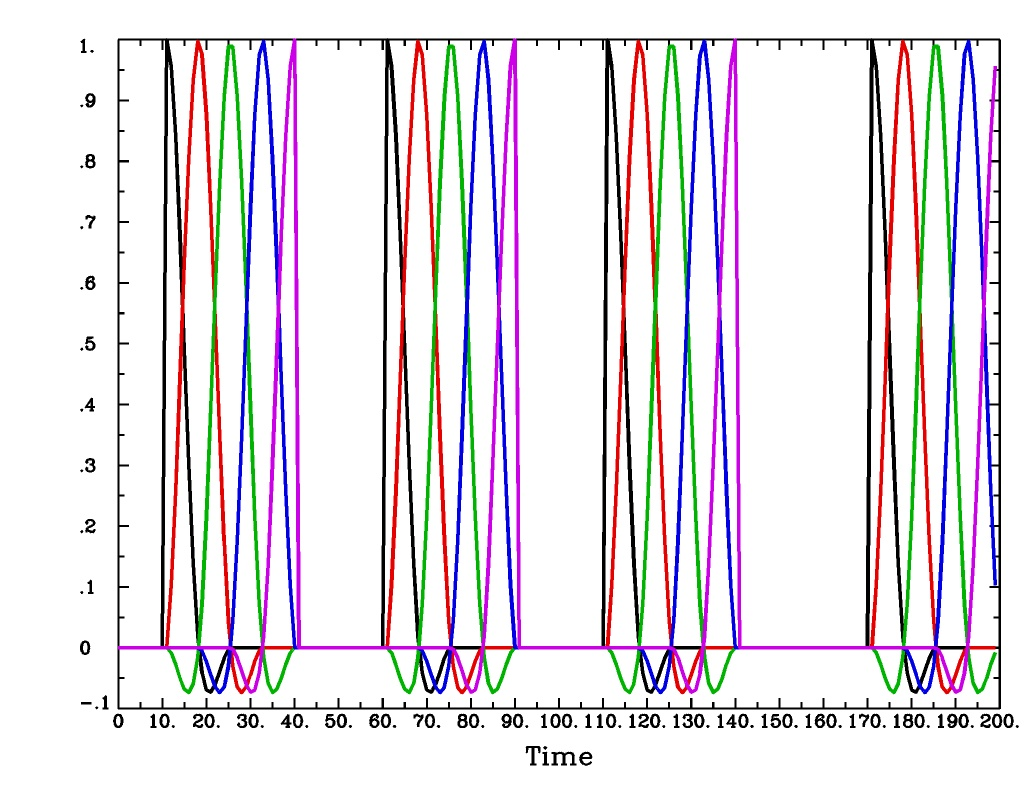
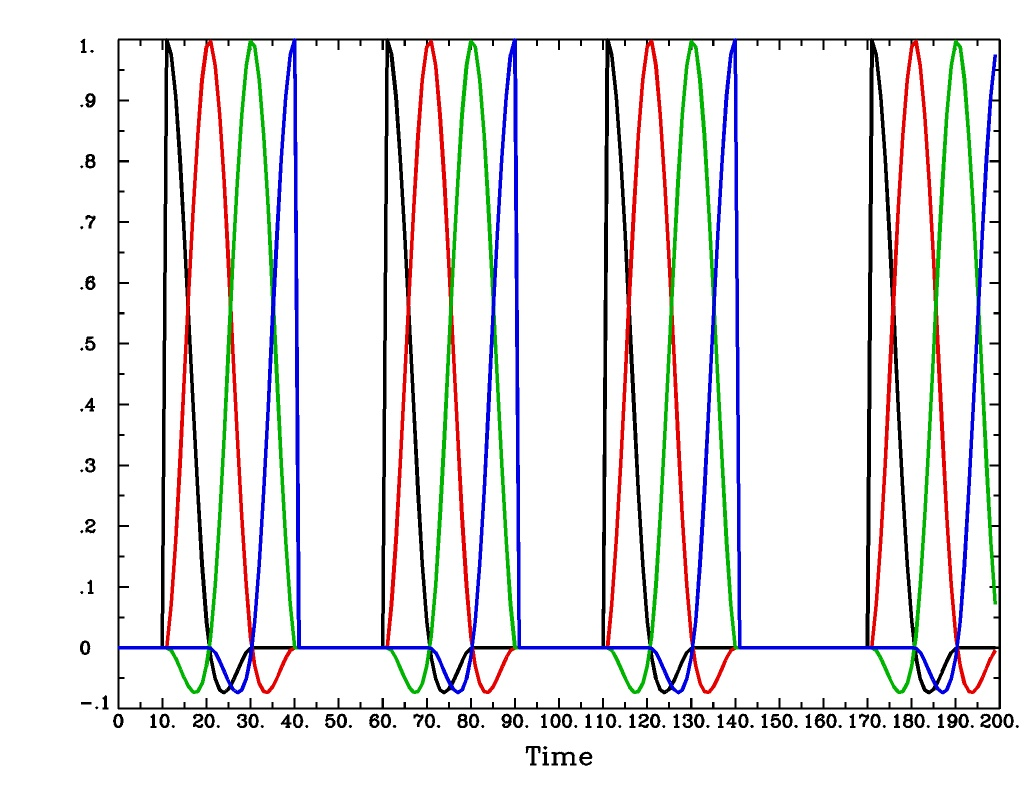
more stim time function plots

diff --git a/statistics/deconvolve_2004.rst b/statistics/deconvolve_2004.rst
@@ -594,7 +594,7 @@ SEE THE CURRENT HELP**
 
       3dDeconvolve -nodata 200 1.0 -num_stimts 1 -polort -1 -xjpeg CSPLIN_x.jpg \
              -local_times -x1D stdout:                  \
-             -stim_times 1 '1D: 10 60 110 170' 'CSPLIN(1,30,5)'  \
+             -stim_times 1 '1D: 10 60 110 170' 'CSPLIN(1,30,4)'  \
       | 1dplot -thick -one -stdin -xlabel Time -jpg CSPLIN_1d.jpg
 
 ----
@@ -604,11 +604,59 @@ SEE THE CURRENT HELP**
    regression parameters per voxel). The qth basis function, for q=1..n, is h\
    :sub:`SIN,q`\(t) = sin(qπ(t-b)/(c-b)).
 
+   .. list-table::
+      :widths: 50 50
+      :header-rows: 1
+   
+      * - ``SIN(b,c,n)`` output from ``-xjeg``
+        - ``SIN(b,c,n)`` output from ``1dplot``
+      * - .. image:: media/SIN_x.jpg
+             :width: 50%
+             :align: center
+        - .. image:: media/SIN_1d.jpg
+             :width: 90%
+             :align: center
+
+   Plot generated with:
+   
+   .. code-block::
+
+      3dDeconvolve -nodata 200 1.0 -num_stimts 1 -polort -1 -xjpeg SIN_x.jpg \
+             -local_times -x1D stdout:                  \
+             -stim_times 1 '1D: 10 60 110 170' 'SIN(1,30,2)'  \
+      | 1dplot -thick -one -stdin -xlabel Time -jpg SIN_1d.jpg
+
+----
+
 7. ``'POLY(b,c,n)'`` is a polynomial function deconvolution model, ranging
    between times s+b and s+c after each stimulus time s, with n basis functions
    (and n regression parameters per voxel). The qth basis function, for q=1..n,
    is h\ :sub:`POLY,q`\(t) = P\ :sub:`q`\(2(t-b)/(c-b)-1) 
    where P\ :sub:`q`\(x) is the qth Legendre polynomial.
+
+   .. list-table::
+      :widths: 50 50
+      :header-rows: 1
+   
+      * - ``POLY(b,c,n)`` output from ``-xjeg``
+        - ``POLY(b,c,n)`` output from ``1dplot``
+      * - .. image:: media/POLY_x.jpg
+             :width: 50%
+             :align: center
+        - .. image:: media/POLY_1d.jpg
+             :width: 90%
+             :align: center
+
+   Plot generated with:
+   
+   .. code-block::
+
+      3dDeconvolve -nodata 200 1.0 -num_stimts 1 -polort -1 -xjpeg POLY_x.jpg \
+             -local_times -x1D stdout:                  \
+             -stim_times 1 '1D: 10 60 110 170' 'POLY(1,30,3)'  \
+      | 1dplot -thick -one -stdin -xlabel Time -jpg POLY_1d.jpg
+
+----
 
 8. ``'BLOCK(d,p)'`` is a block stimulus of duration d starting at each stimulus
    time.
@@ -627,6 +675,31 @@ SEE THE CURRENT HELP**
      rescaled so that the peak value of the entire block is 'p' rather than 
      H\ :sub:`peak`\(d). For most purposes, the best value would be p=1.
    * ``'BLOCK'`` is a 1 parameter model (the amplitude).
+
+   .. list-table::
+      :widths: 50 50
+      :header-rows: 1
+   
+      * - ``BLOCK(d,p)`` output from ``-xjeg``
+        - ``BLOCK(d,p)`` output from ``1dplot``
+      * - .. image:: media/BLOCK_x.jpg
+             :width: 50%
+             :align: center
+        - .. image:: media/BLOCK_1d.jpg
+             :width: 90%
+             :align: center
+
+   Plot generated with:
+   
+   .. code-block::
+
+      3dDeconvolve -nodata 200 1.0 -num_stimts 1 -polort -1 -xjpeg BLOCK_x.jpg \
+             -local_times -x1D stdout:                  \
+             -stim_times 1 '1D: 10 60 110 170' 'BLOCK(20,1)'  \
+      | 1dplot -thick -one -stdin -xlabel Time -jpg BLOCK_1d.jpg \
+               -DAFNI_1DPLOT_COLOR_01=red 
+
+----
 
 9. ``'EXPR(b,c) exp1 exp2 ...'`` is a set of user-defined basis functions,
    ranging between times s+b and s+c after each stimulus time s. The expressions
